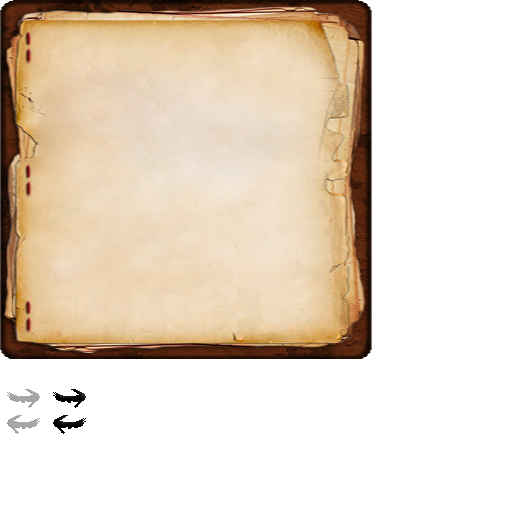
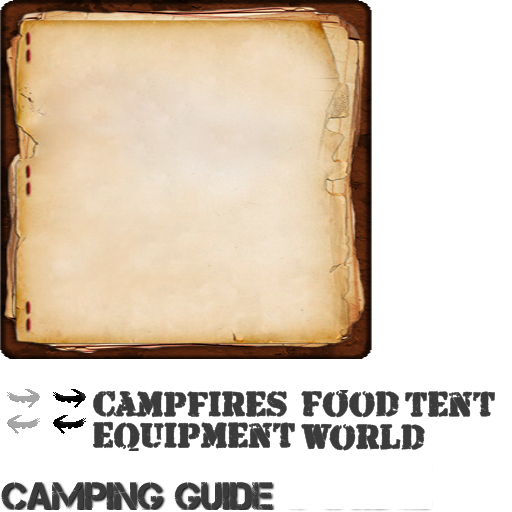
Worked on the Guide books

Changed region(s): [[0.1562, 0.75, 0.9688, 0.9062], [0.0, 0.9375, 0.5312, 1.0]]

diff --git a/common/rikmuld/client/gui/screen/GuiGuide.java b/common/rikmuld/client/gui/screen/GuiGuide.java
@@ -5,6 +5,7 @@ import net.minecraft.client.gui.GuiScreen;
 
 import org.lwjgl.opengl.GL11;
 
+import rikmuld.client.gui.button.GuiButtonUniversalSprite;
 import rikmuld.client.gui.button.GuiButtonGuidePage;
 import rikmuld.core.lib.Textures;
 
@@ -16,21 +17,29 @@ public class GuiGuide extends GuiScreen{
     private GuiButtonGuidePage buttonPreviousPage;
     private int BookPages;
     private int BookPagesTotaal = 15;
-    
-	public GuiGuide()
-	{
-		
-	}
+    private GuiButtonUniversalSprite buttonIcon;
 
 	public void initGui()
 	{
 		controlList.clear();
+	    addButtonByPage(BookPages);
 		int var1 = (this.width - this.bookImageWidth) / 2;
 		int var2 = (this.height - this.bookImageHeight) / 2;
         this.controlList.add(this.buttonNextPage = new GuiButtonGuidePage(0, var1 + 132, var2 + 140, true));
         this.controlList.add(this.buttonPreviousPage = new GuiButtonGuidePage(1, var1 + 26, var2 + 140, false));
 	}
 	
+	private void addImgByPage(int page) 
+	{
+		if(page==0)
+		{
+			this.drawTexturedModalRect(((this.width - this.bookImageWidth) / 2)+22, ((this.height - this.bookImageHeight) / 2)+11, 0, 240, 136, 15);
+		}
+	}
+
+	private void addButtonByPage(int page) {}
+	private void addTextByPage(int page) {}
+
 	@Override
 	public void actionPerformed(GuiButton button)
 	{
@@ -57,6 +66,8 @@ public class GuiGuide extends GuiScreen{
 		 int var1 = (this.width - this.bookImageWidth) / 2;
 		 int var2 = (this.height - this.bookImageHeight) / 2;
 		 int var3 = 0;
+	     addTextByPage(BookPages);
+	     addImgByPage(BookPages);
 		 if(BookPages>=9)
 		 {
 			 var3 = 4;

diff --git a/common/rikmuld/client/gui/button/GuiButtonUniversalSprite.java b/common/rikmuld/client/gui/button/GuiButtonUniversalSprite.java
@@ -1,0 +1,39 @@
+package rikmuld.client.gui.button;
+
+import net.minecraft.client.Minecraft;
+import net.minecraft.client.gui.GuiButton;
+
+import org.lwjgl.opengl.GL11;
+
+import rikmuld.core.lib.Textures;
+
+public class GuiButtonUniversalSprite extends GuiButton{
+
+	private int IconIndexHeight;
+	private int IconIndexWidth;
+
+    public GuiButtonUniversalSprite(int par1, int par2, int par3, int par4)
+    {
+        super(par1, par2, par3, 16, 16, "");
+
+        for(;par4>15;)
+        {
+        	par4-=15;
+        	IconIndexHeight++;
+        }
+        IconIndexWidth = par4;
+    }
+
+    public void drawButton(Minecraft par1Minecraft, int par2, int par3)
+    {
+        if (this.drawButton)
+        {
+            boolean var4 = par2 >= this.xPosition && par3 >= this.yPosition && par2 < this.xPosition + this.width && par3 < this.yPosition + this.height;
+            GL11.glColor4f(1.0F, 1.0F, 1.0F, 1.0F);
+            par1Minecraft.renderEngine.bindTexture(par1Minecraft.renderEngine.getTexture(Textures.SPRITE_LOCATION + Textures.SPRITE_BUTTONS));
+            int var6 = IconIndexHeight*16;
+            int var5 = IconIndexWidth*16;
+            this.drawTexturedModalRect(this.xPosition, this.yPosition, var5, var6, 16, 16);
+        }
+    }
+}

diff --git a/common/rikmuld/core/lib/Textures.java b/common/rikmuld/core/lib/Textures.java
@@ -9,6 +9,7 @@ public class Textures {
 	public static final String SPRITE_BLOCK = "Blocks.png";
 	public static final String SPRITE_ITEM= "Items.png";
 	public static final String SPRITE_PARTICLES= "Particles.png";
+	public static final String SPRITE_BUTTONS = "Buttons.png";
 	
 	public static final String MODEL_CAMPER_MALE= "CamperMale.png";
 	public static final String MODEL_CAMPER_FEMALE= "CamperFemale.png";
